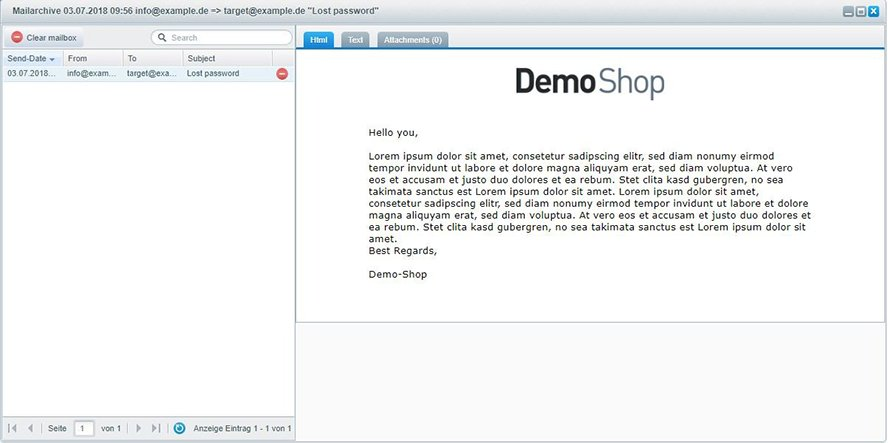
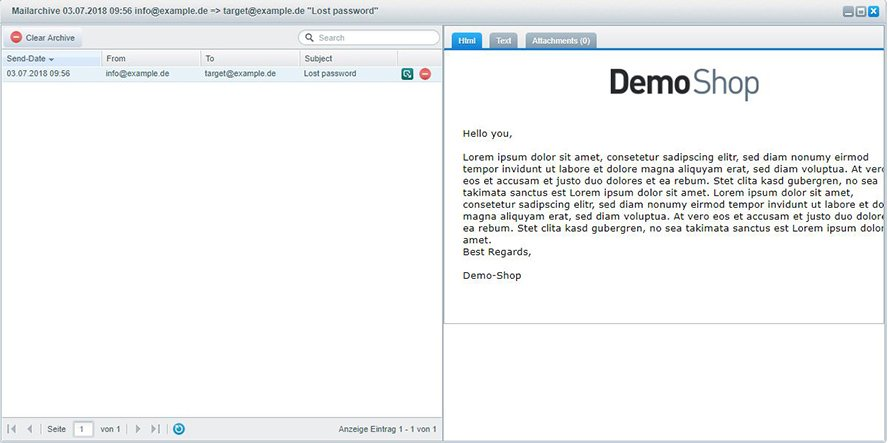
update preview

diff --git a/README.md b/README.md
@@ -8,6 +8,9 @@ This plugins adds an MailArchive to your Shopware-Backend stored in Database.
 
 ![Preview](preview.jpg)
 
+- Download Mail as EML-File
+- Search Mails
+
 ### Planned Features
 
 - do not archive Mails catched by MailCatcher
